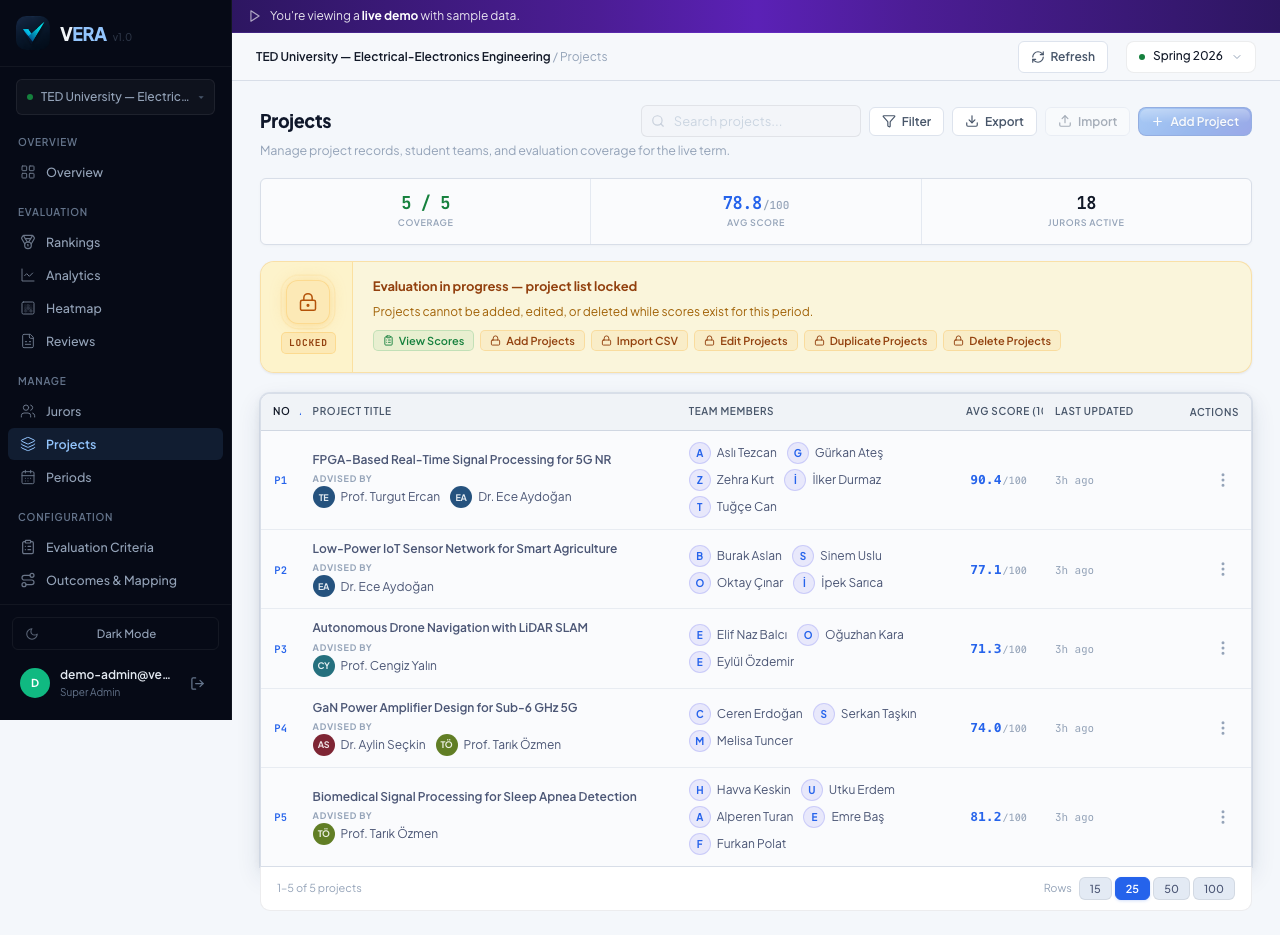
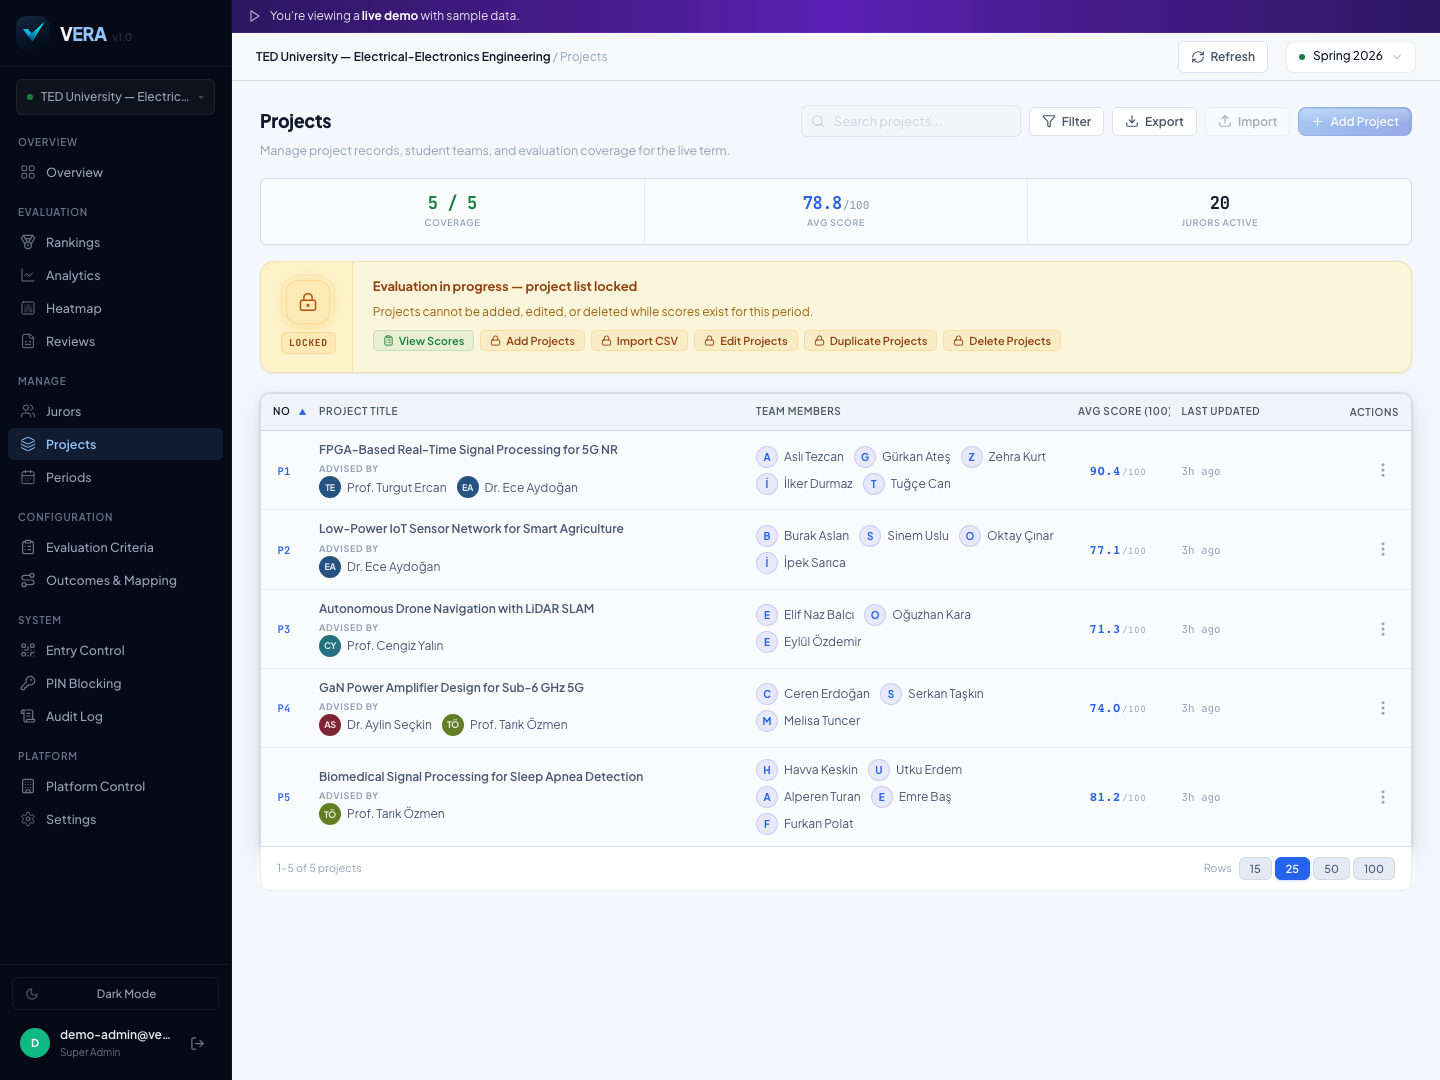
fix(screenshots): fix blank-sidebar viewport bug; refresh all 14 admin screenshots at 1440×1080
fullPage: true caused the fixed sidebar to disappear in any content below the
initial viewport height. Removed fullPage and set a 1440×1080 viewport on the
screenshots Playwright project so captures are viewport-only and sidebar-complete.

diff --git a/e2e/screenshots/_helpers.ts b/e2e/screenshots/_helpers.ts
@@ -44,7 +44,9 @@ export async function setMobileViewport(page: Page): Promise<void> {
 export async function captureScreenshot(page: Page, relativePath: string): Promise<void> {
   const outPath = path.join(IMAGES_ROOT, relativePath);
   fs.mkdirSync(path.dirname(outPath), { recursive: true });
-  await page.screenshot({ path: outPath, fullPage: true });
+  // Do NOT use fullPage: true — the sidebar is position:fixed and would be absent
+  // outside the viewport, leaving a blank left column in full-page captures.
+  await page.screenshot({ path: outPath });
 }
 
 /**
